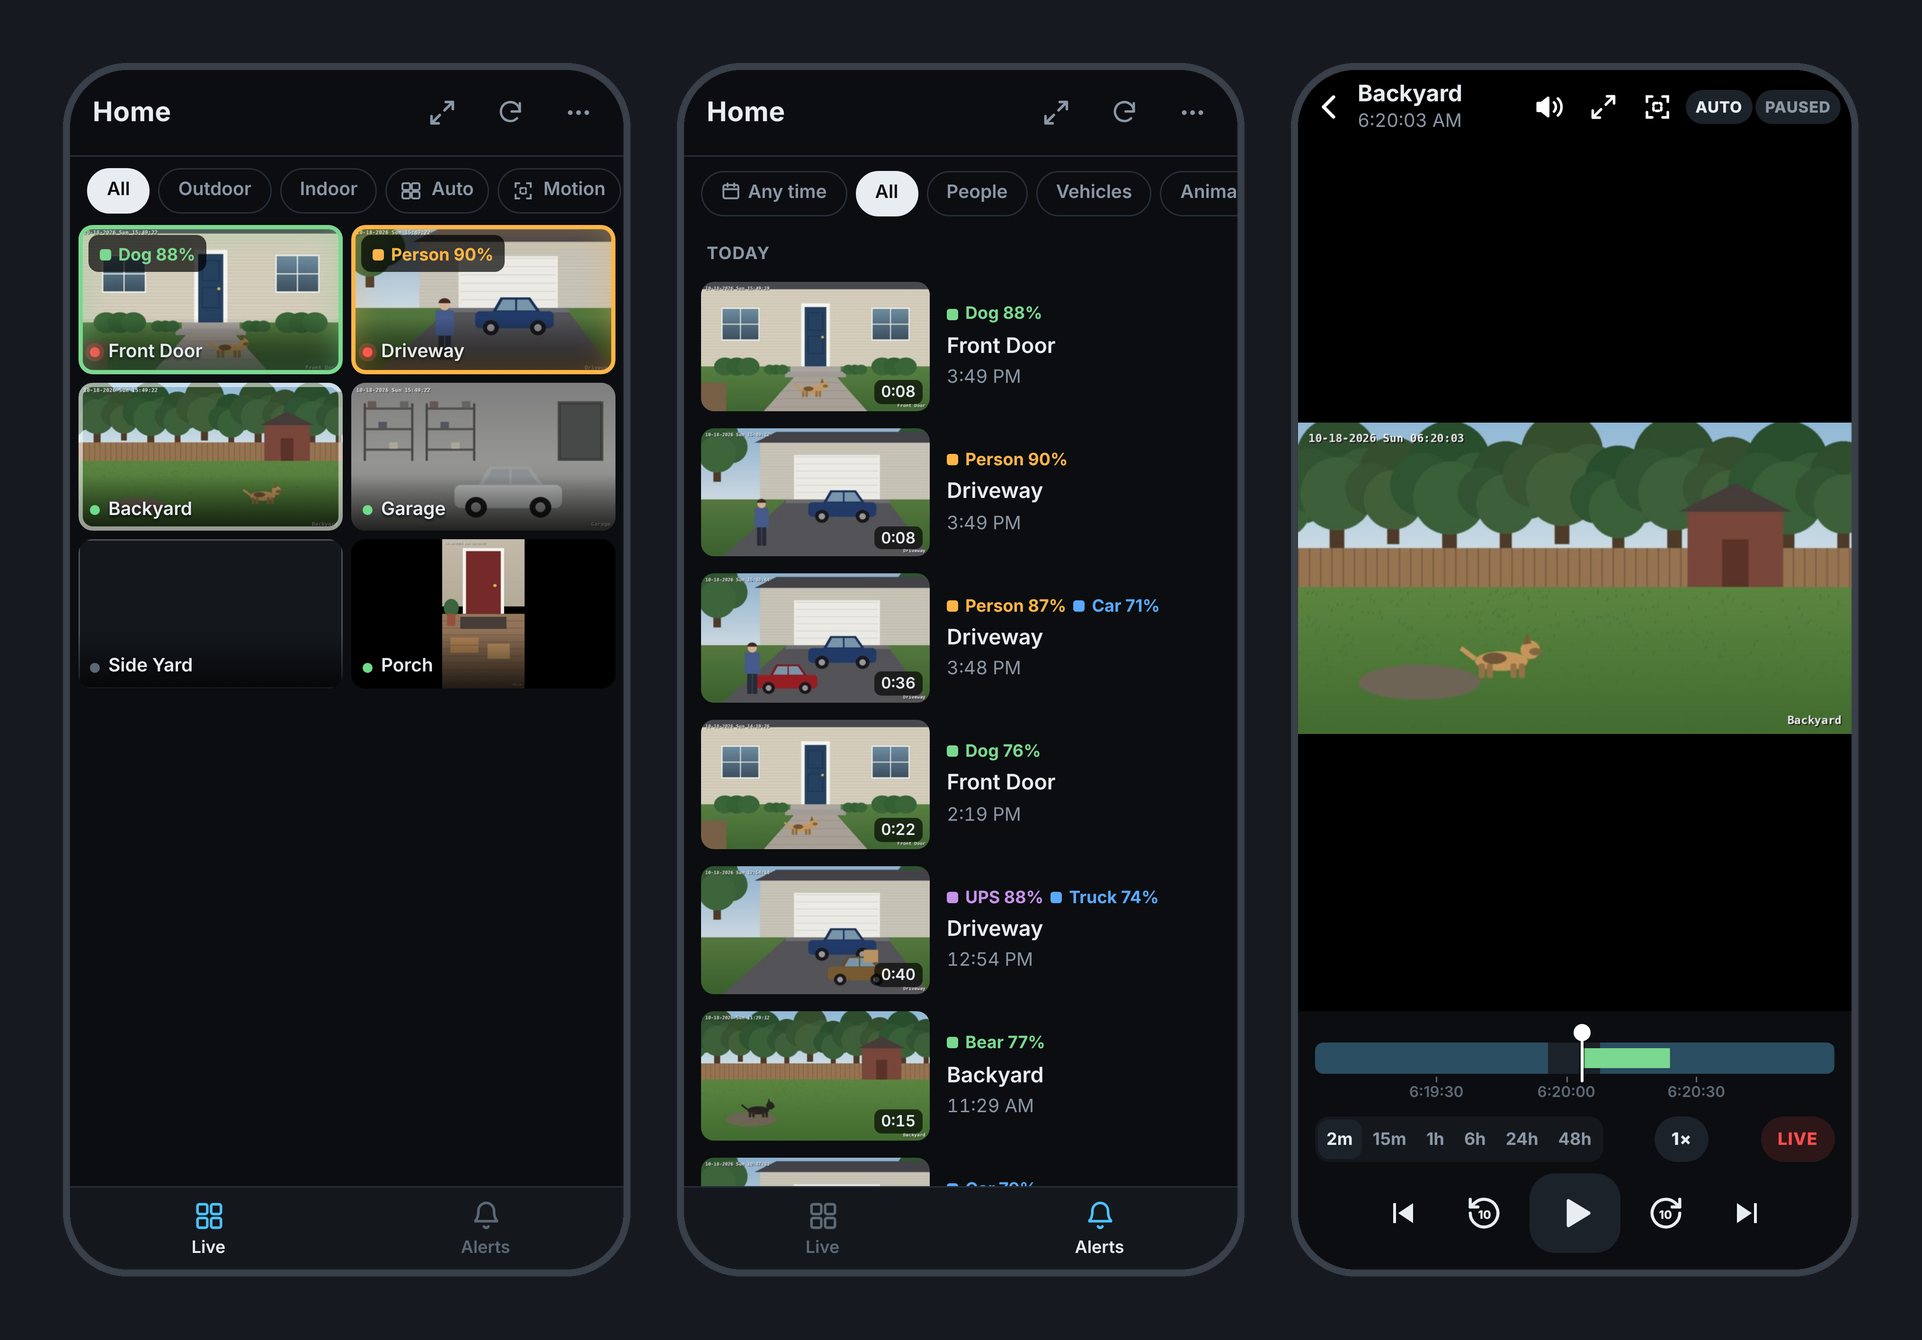
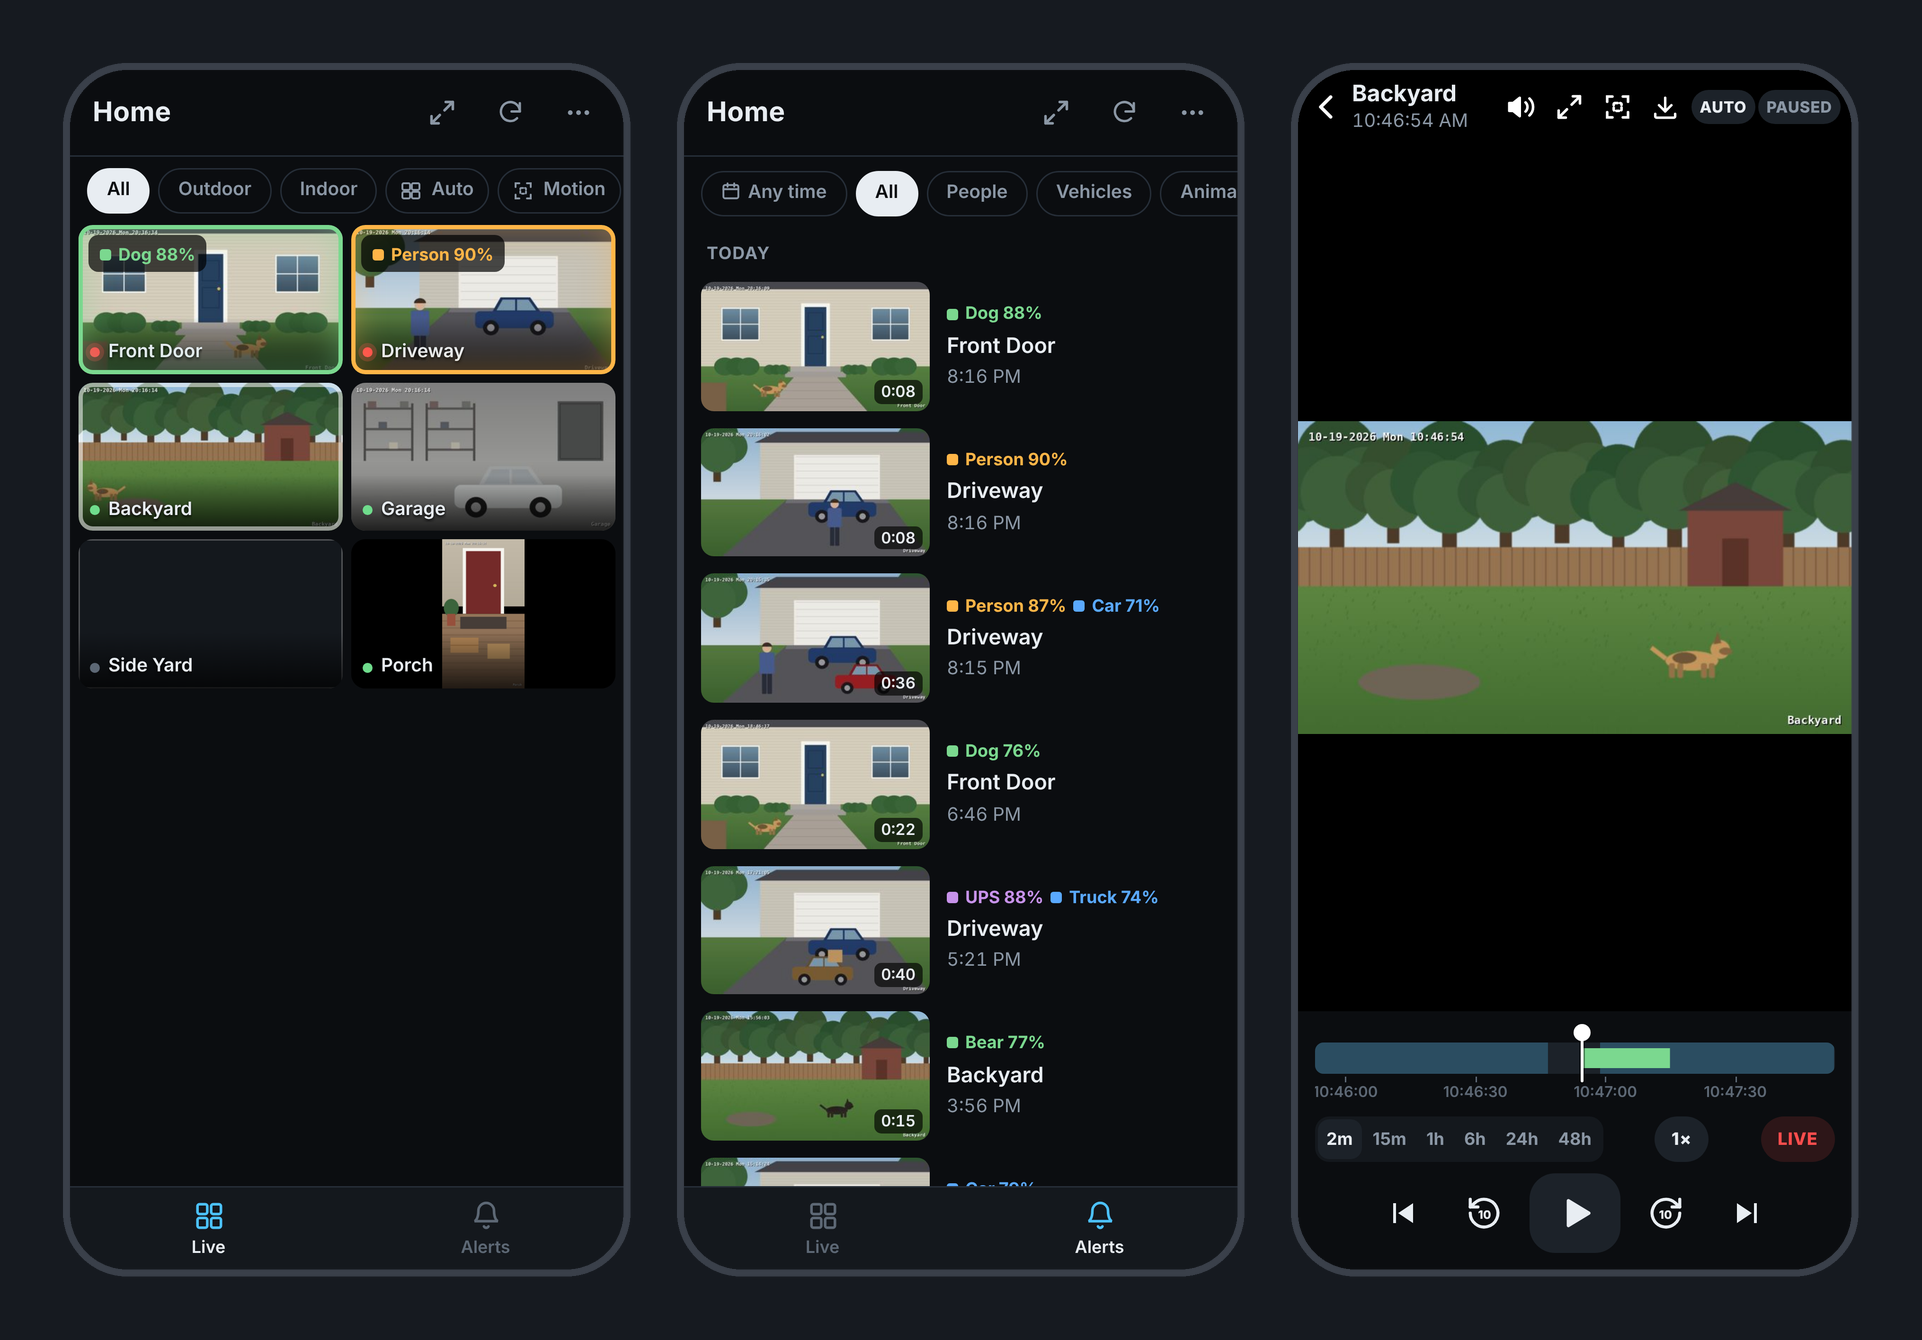
Release 0.13.0
Alert downloads as MP4 (with start/end trimming), sharper video matching
UI3, click/tap the video like UI3, alerts played from their recording
file, GitHub links in About, and timeline fixes. README screenshots
retaken from the demo server.

Claude-Session: https://claude.ai/code/session_01T5ZrvtmFomZ4pfZJka1E5x

diff --git a/www/sightline.htm b/www/sightline.htm
@@ -688,7 +688,7 @@ body.isfs #viewer.hideui{cursor:none}
 'use strict';
 /* Values filled in by the Blue Iris web server when it serves this .htm file */
 const INJECTED_SESSION = "%%SESSION%%";
-const APP = { name: 'Sightline', version: '0.12.1-dev' };   // bump the version with every change you copy to the www folder
+const APP = { name: 'Sightline', version: '0.13.0' };   // bump the version with every change you copy to the www folder
 const INJECTED_SYSNAME = "%%SYSNAME%%";
 /* Note: never write two percent signs together anywhere else in this file \u2014 Blue Iris treats the
    text between them as a placeholder and blanks it out when serving the page. */

diff --git a/CHANGELOG.md b/CHANGELOG.md
@@ -2,7 +2,7 @@
 
 All notable changes to Sightline for Blue Iris. Released versions match what **Settings → About** shows; a version ending in `-dev` is a work-in-progress copy from `main`.
 
-## Unreleased (next: 0.12.1)
+## 0.13.0 — 2026-10-19
 
 - **Sharper video, matching UI3.** Sightline now asks Blue Iris for video the way UI3 does: a size plus UI3's quality and bitrate settings for that size. Before, Blue Iris fell back to its web server defaults, which looked softer and took longer to sharpen after movement. **Auto** picks the size from the pixels the player covers, with a margin: a full-screen browser on a computer gets the camera's full picture (for example 2560×1440 at up to 4 Mbps on a 4MP camera, the same as UI3's 4MP setting), while a phone held upright gets 720p at up to 1 Mbps. Fixed choices (480p to 4K) use UI3's settings for that size. The quality menu shows the data rate for each choice and the live rate being received. Viewing on a computer away from home can now use more data than before.
 - **Click or tap the video, like UI3.** On a recording it pauses or resumes; on a live camera it closes the player and goes back to where you opened it (usually the camera grid). Double-click still switches between fit and fill. When the controls float over the video on a touch screen (phone sideways or full screen), a tap still shows or hides them.
